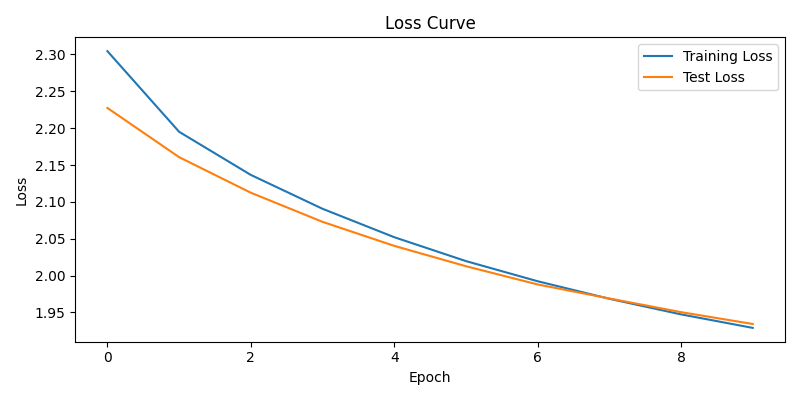
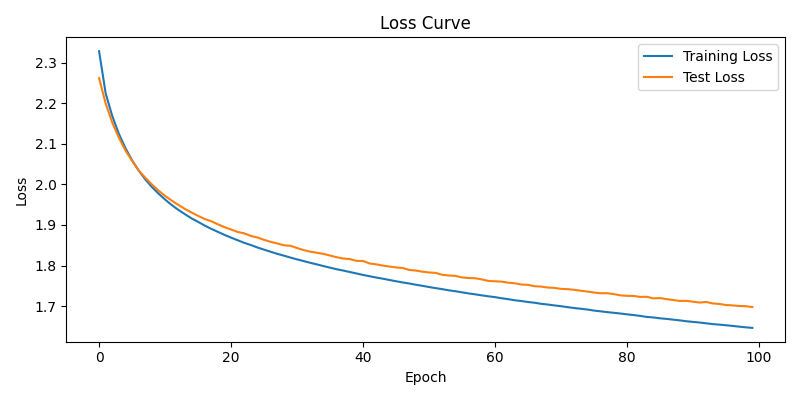
cifar 10 training

diff --git a/train_multiclass.py b/train_multiclass.py
@@ -66,8 +66,10 @@ def parse_args():
 
 
 def train_multiclass(X_train, X_test, y_train, y_test, y_train_oh, y_test_oh, args):
-    # model = MLP(X_train.shape[1], [256, 128, 64], 10, multiclass=True)
-    model = MLP(X_train.shape[1], [1536, 768, 384, 192], 10, multiclass=True)
+    if dataset == "cifar_10":
+        model = MLP(X_train.shape[1], [768, 384, 192], 10, multiclass=True)
+    else:
+        model = MLP(X_train.shape[1], [256, 128, 64], 10, multiclass=True)
 
     epochs = args.epochs
     best_test_loss = float("inf")
